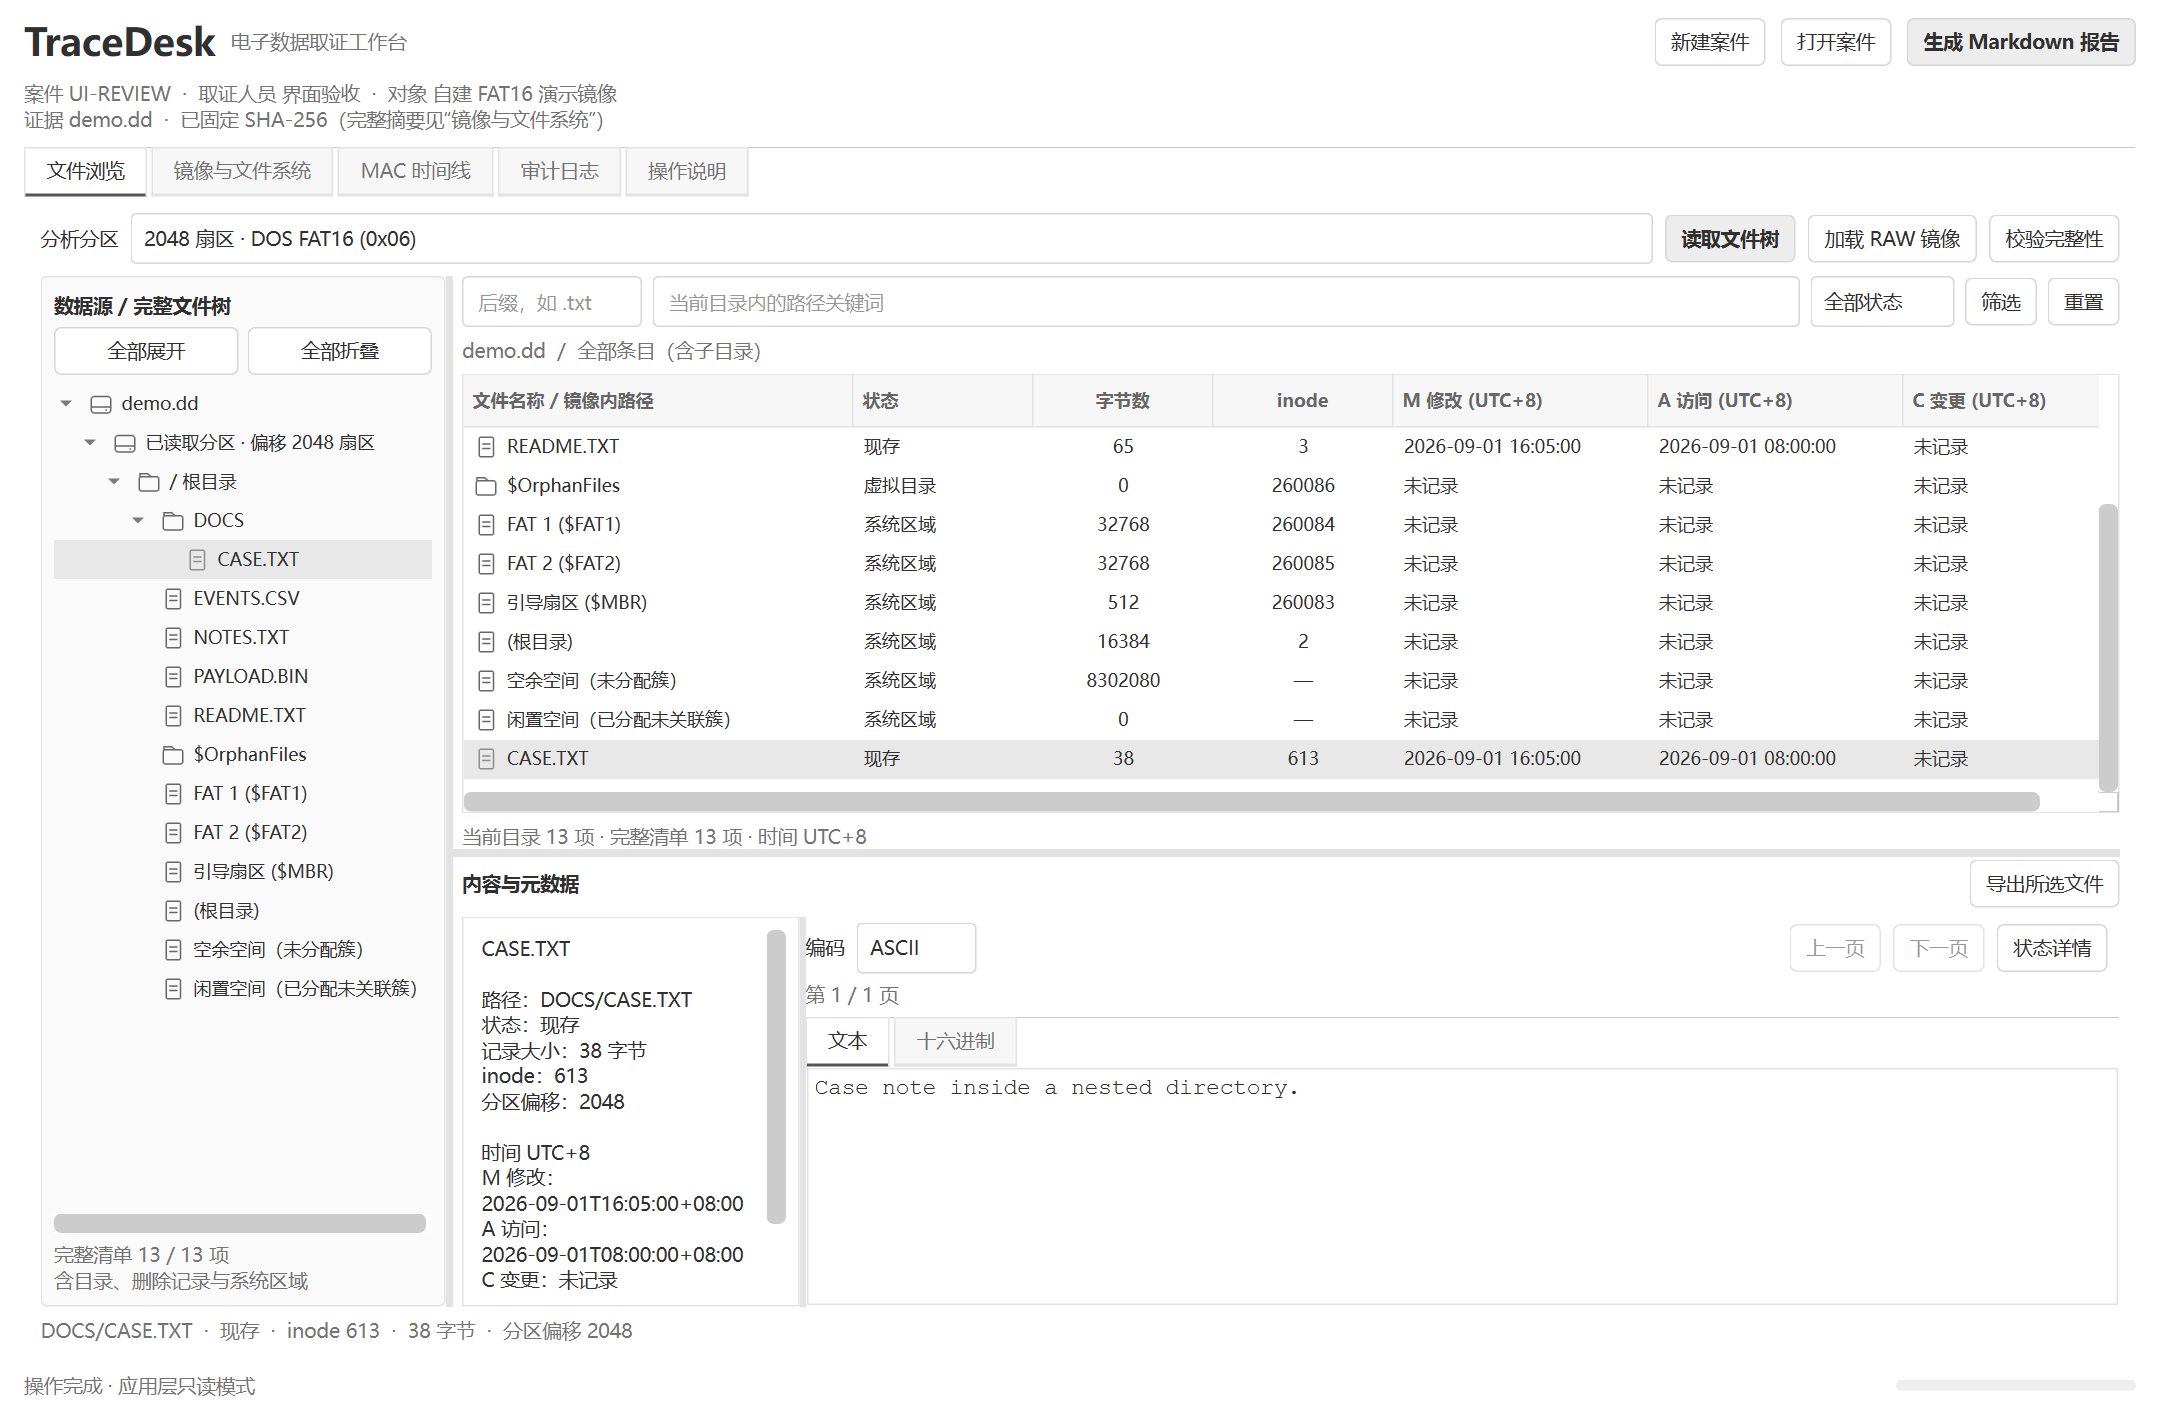
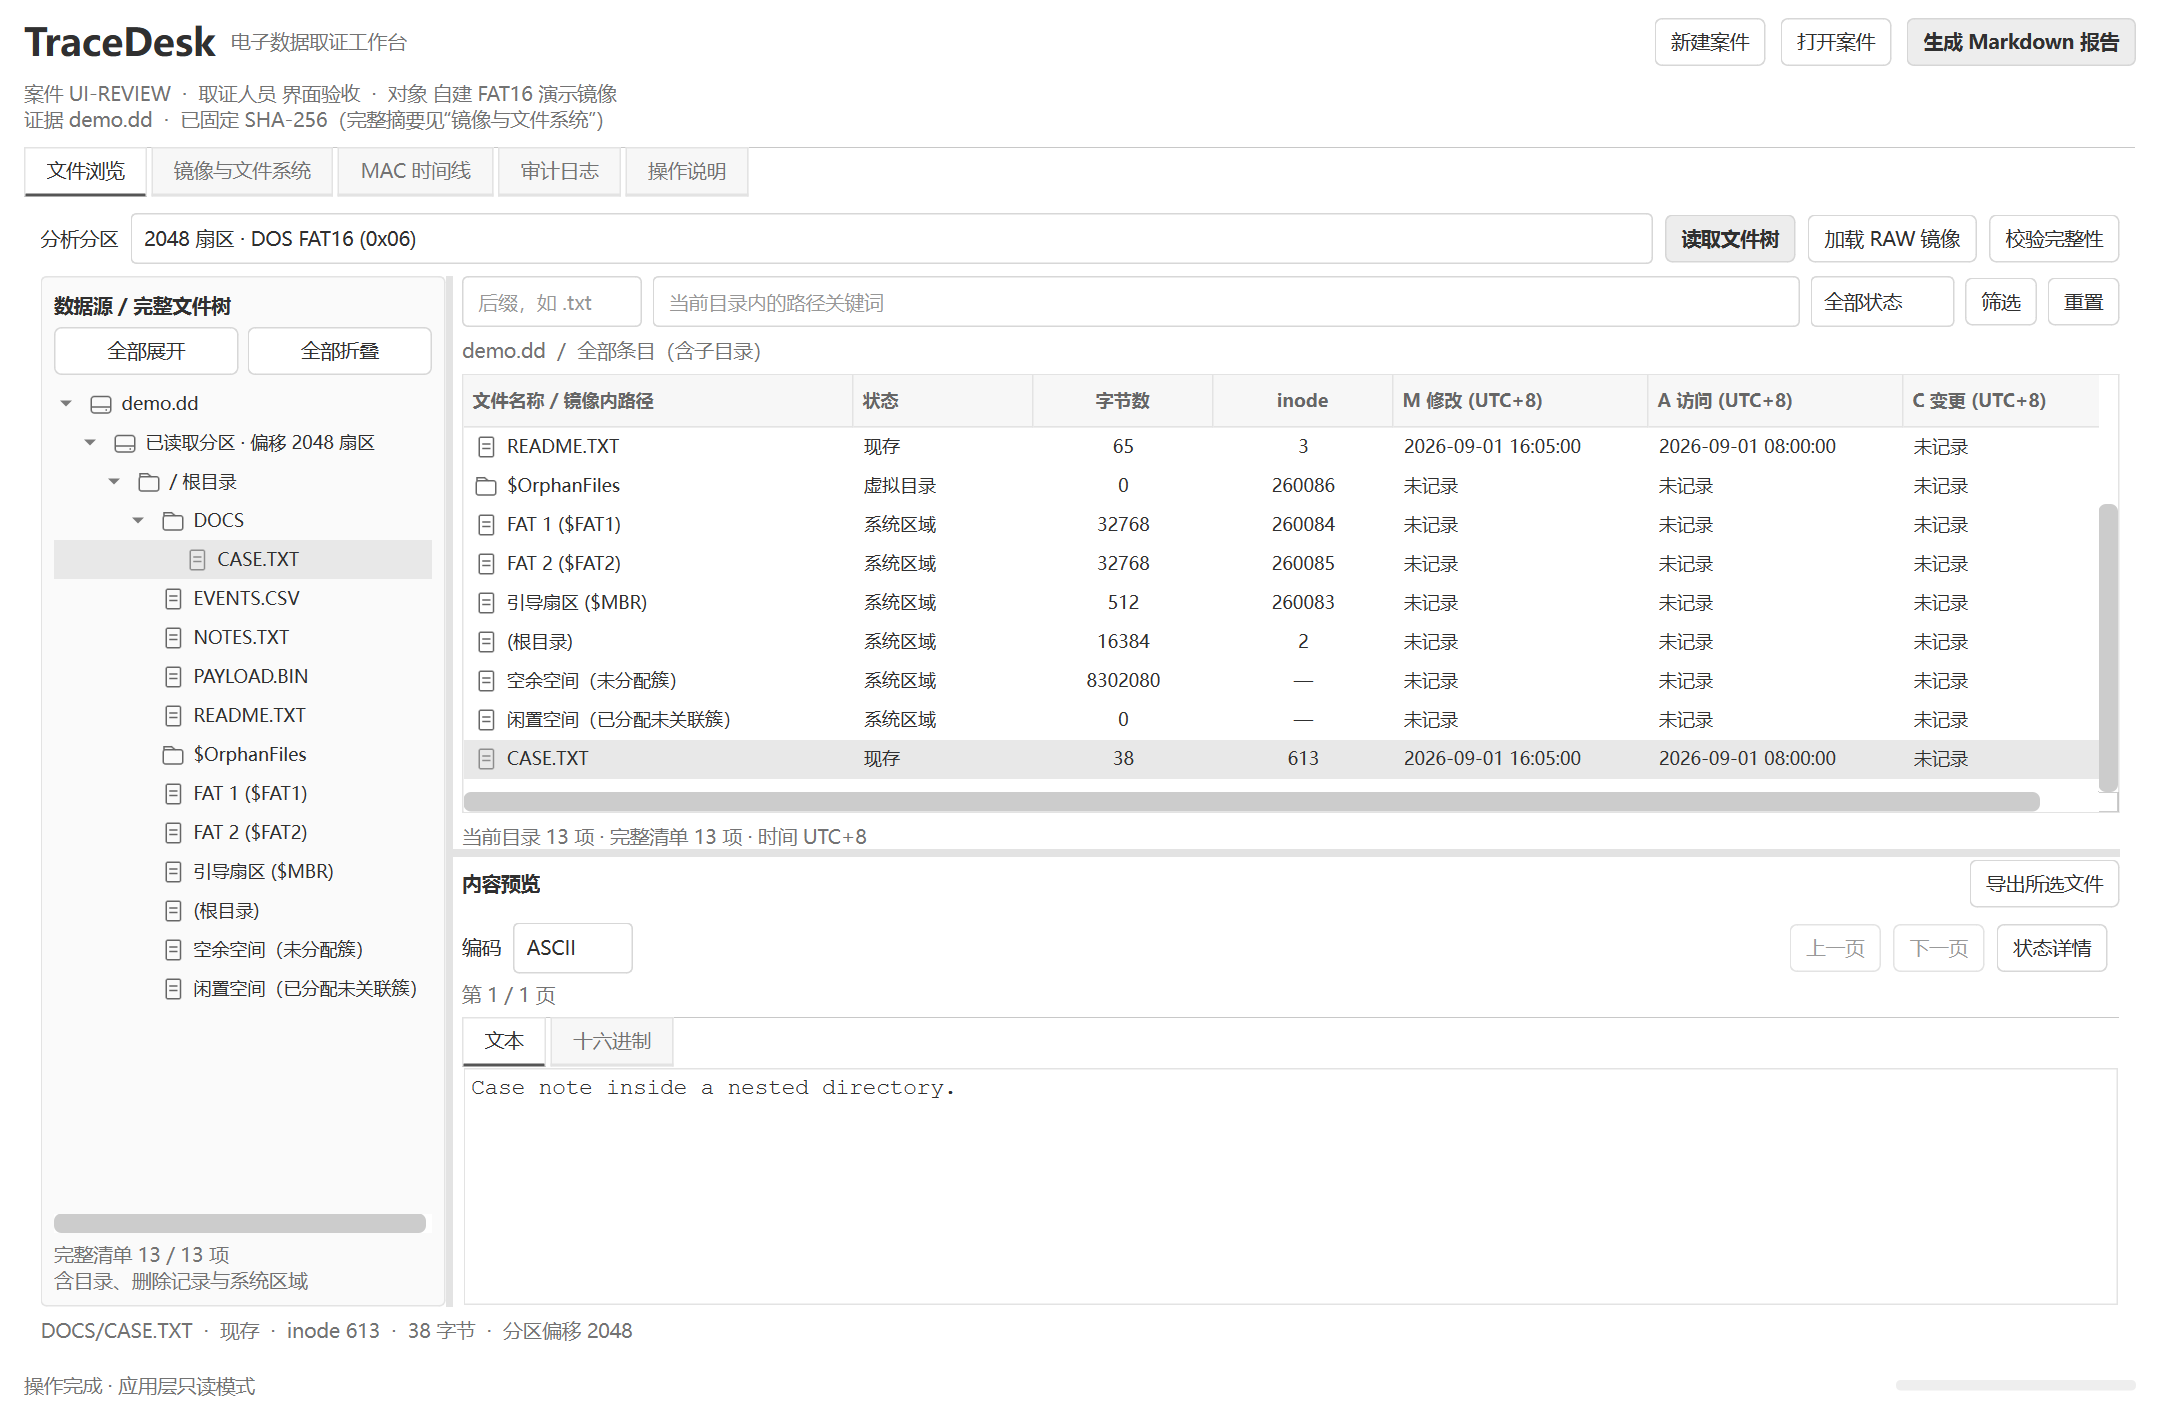
移除文件属性侧栏并扩展内容预览区域

Changed region(s): [[0.2171, 0.6241, 0.4653, 0.9362]]

diff --git a/forensic/ui/browser.py b/forensic/ui/browser.py
@@ -4,7 +4,7 @@ from pathlib import Path
 from PySide6.QtCore import QSignalBlocker, QTimer, Qt
 from PySide6.QtGui import QColor, QIcon, QPainter, QPen, QPixmap
 from PySide6.QtWidgets import (QAbstractItemView, QComboBox, QFrame, QHBoxLayout,
-                               QHeaderView, QLabel, QLineEdit, QPlainTextEdit,
+                               QHeaderView, QLabel, QLineEdit,
                                QPushButton, QSizePolicy, QSplitter, QTreeWidget,
                                QTreeWidgetItem, QVBoxLayout, QWidget)
 
@@ -178,27 +178,14 @@ class FileBrowserView(QWidget):
         content_layout.setContentsMargins(6, 2, 0, 0)
         content_layout.setSpacing(6)
         content_header = QHBoxLayout()
-        content_header.addWidget(label('内容与元数据', 'section'))
+        content_header.addWidget(label('内容预览', 'section'))
         content_header.addStretch()
         self.export_button = self._button('导出所选文件', commands['export'])
         content_header.addWidget(self.export_button)
         content_layout.addLayout(content_header)
-        self.content_split = QSplitter(Qt.Orientation.Horizontal)
-        self.content_split.setChildrenCollapsible(False)
-        self.content_split.setHandleWidth(4)
-        self.metadata = QPlainTextEdit()
-        self.metadata.setObjectName('fileMetadata')
-        self.metadata.setReadOnly(True)
-        self.metadata.setMinimumWidth(150)
-        self.metadata.setPlaceholderText('选择文件查看属性、时间和内容')
-        self.content_split.addWidget(self.metadata)
-        self.preview = FilePreview(self.content_split)
+        self.preview = FilePreview(content)
         self.preview.setMinimumHeight(160)
-        self.content_split.addWidget(self.preview)
-        self.content_split.setStretchFactor(0, 0)
-        self.content_split.setStretchFactor(1, 1)
-        self.content_split.setSizes([225, 700])
-        content_layout.addWidget(self.content_split, 1)
+        content_layout.addWidget(self.preview, 1)
         self.split.addWidget(content)
         self.split.setStretchFactor(0, 3)
         self.split.setStretchFactor(1, 2)
@@ -227,7 +214,6 @@ class FileBrowserView(QWidget):
     def display(self, entries):
         self.cancel_display()
         self.preview.clear()
-        self.metadata.clear()
         self.detail.setText('选择目录定位文件；拖动分隔条调整树、列表和内容区域。')
         self.export_button.setEnabled(False)
         with QSignalBlocker(self.tree), QSignalBlocker(self.navigation):
@@ -355,11 +341,10 @@ class FileBrowserView(QWidget):
             self.tree.setUpdatesEnabled(True)
         self._update_counts()
         if not self.tree.selectedItems():
-            self.metadata.clear()
             self.export_button.setEnabled(False)
             self.preview.clear('没有匹配项' if not self._visible_count else '请选择文件')
             self.detail.setText('当前目录没有匹配项，左侧保留完整文件树。' if not self._visible_count
-                                else '请选择文件查看内容和元数据。')
+                                else '请选择文件查看内容。')
 
     def _update_counts(self):
         scope = '全部条目（含子目录）' if self._scope is None else '/' + self._scope
@@ -386,13 +371,12 @@ class FileBrowserView(QWidget):
                 self.tree.setCurrentItem(None)
             self.reset_filter()
             node.setExpanded(True)
-            self.detail.setText('双击右侧目录进入；选择文件查看内容和元数据。')
+            self.detail.setText('双击右侧目录进入；选择文件查看内容。')
 
     def _result_selected(self):
         selected = self.tree.selectedItems()
         entry = selected[0].data(0, Qt.ItemDataRole.UserRole) if selected else None
         if entry is None:
-            self.metadata.clear()
             self.export_button.setEnabled(False)
         else:
             node = self._nav_items[selected[0].data(0, self.ROW_ROLE)]
@@ -403,11 +387,6 @@ class FileBrowserView(QWidget):
                     parent.setExpanded(True)
                     parent = parent.parent()
                 self.navigation.scrollToItem(node)
-            dates = '\n'.join(f'{title}：{display_time(entry.get(field, 0))}' for title, field in
-                              [('M 修改', 'mtime'), ('A 访问', 'atime'), ('C 变更', 'ctime'), ('B 创建', 'crtime')])
-            self.metadata.setPlainText(f'{entry_name(entry)}\n\n路径：{entry["path"]}\n状态：{entry_status(entry)}\n'
-                                       f'记录大小：{entry["size"]} 字节\ninode：{entry["inode"] or "—"}\n'
-                                       f'分区偏移：{entry["offset"]}\n\n时间 UTC+8\n{dates}')
             self.export_button.setEnabled(not self._busy and can_export(entry))
         self.commands['select']()
 

diff --git a/tests/ui/test_gui.py b/tests/ui/test_gui.py
@@ -147,7 +147,7 @@ class FileBrowserTests(QtTests):
         self.assertTrue(browser.export_button.isEnabled())
         app.preview.open_file.assert_called_once()
 
-    def test_duplicate_deleted_entries_keep_distinct_selection_and_metadata(self):
+    def test_duplicate_deleted_entries_keep_distinct_selection_and_preview(self):
         root, app = self.controller()
         entries = [self.entry(path='DOCS/same.txt', inode=str(i), deleted=True) for i in (5, 9)]
         app.display(entries)
@@ -157,11 +157,11 @@ class FileBrowserTests(QtTests):
         for key, entry in browser.entries.items():
             browser.navigation.setCurrentItem(browser._nav_items[key])
             self.assertEqual(app.selected_entry()['inode'], entry['inode'])
-            self.assertIn(f'inode：{entry["inode"]}', browser.metadata.toPlainText())
+            self.assertIn(f'inode {entry["inode"]}', browser.detail.text())
             self.assertEqual(app.preview.open_file.call_args.args[1]['inode'], entry['inode'])
         browser.apply_filter([])
         self.assertFalse(browser.export_button.isEnabled())
-        self.assertEqual(browser.metadata.toPlainText(), '')
+        self.assertNotIn('inode', browser.detail.text())
         self.assertIsNone(app.selected_entry())
 
     def test_filters_during_batch_insertion_do_not_drop_tree_records(self):

diff --git a/forensic/ui/appearance.py b/forensic/ui/appearance.py
@@ -72,7 +72,6 @@ class DesktopAppearance:
             QLabel[role="section"] { font-weight: 600; }
             QFrame#navigationPanel { background: #fafafa; border: 1px solid #e3e3e3; border-radius: 4px; }
             QTreeWidget#evidenceTree { background: #fafafa; border: none; }
-            QPlainTextEdit#fileMetadata { padding: 8px; }
             QLabel[role="muted"], QLabel#muted { color: #737373; }
             QLabel[role="title"] { color: #303030; }
             QLabel#sectionTitle { color: #303030; font-size: 16px; font-weight: 600; }

diff --git a/docs/设计与验收说明.md b/docs/设计与验收说明.md
@@ -40,7 +40,7 @@ flowchart TD
 
 GUI 将耗时任务放到后台线程，以队列将结果交回 Qt 主线程，通过 `QTimer` 定时消费结果。执行期间禁止切换案件和关闭应用，防止任务写入错误案件。目录名由案件编号、取证人员和取证对象组成。路径分隔符等禁用字符替换为下划线，重名时添加序号；案件元数据保留独立 UUID。
 
-界面为原生 PySide6 控件，采用白色主体与浅灰主题。左侧完整文件树独立于右上目录结果，下方提供文本、十六进制和元数据；筛选仅隐藏结果行，不重建或裁剪完整树。同名删除记录使用独立行标识，选择、预览和导出保留对应的 inode。保留 `Case`、`TSK` 和案件文件格式，布局、主题、对话框、文件树批次显示、任务队列与操作协调分别由独立类负责。主线程消费 `TaskResult` 后更新控件，工作线程不操作 Qt 控件。文件树分批插入，重新加载清单时取消尚未完成的批次；字节数和 inode 两列的标题与数据保持居中。
+界面为原生 PySide6 控件，采用白色主体与浅灰主题。左侧完整文件树独立于右上目录结果，下方整行提供文本和十六进制预览；文件属性与时间在结果列表及底部摘要查看。筛选仅隐藏结果行，不重建或裁剪完整树。同名删除记录使用独立行标识，选择、预览和导出保留对应的 inode。保留 `Case`、`TSK` 和案件文件格式，布局、主题、对话框、文件树批次显示、任务队列与操作协调分别由独立类负责。主线程消费 `TaskResult` 后更新控件，工作线程不操作 Qt 控件。文件树分批插入，重新加载清单时取消尚未完成的批次；字节数和 inode 两列的标题与数据保持居中。
 
 BAT 启动脚本切换到项目目录，首次创建 `.venv`，仅在 PySide6 缺失时补齐 pip 并通过清华镜像安装依赖，再通过 `.venv\Scripts\python.exe main.py` 启动；保留终端窗口，运行失败时暂停。Qt 6 自动处理高 DPI 缩放，窗口按屏幕可用工作区放置。应用入口和 Qt 回调异常写入日志并弹窗显示，退出事件循环时恢复原有 `sys.excepthook`。
 

diff --git a/docs/ui/实施与验证.md b/docs/ui/实施与验证.md
@@ -7,8 +7,8 @@
 - 白色主体、浅灰导航与选中项、深灰文字和图标，标题栏与任务栏图标也同步为灰阶。
 - 左侧显示镜像、本次读取分区、完整目录层级及文件；删除记录和系统区域保留，不因后缀、路径或状态筛选消失。
 - 右上展示当前目录结果，点击左树文件会定位其父目录，双击右侧目录可进入；列表选中项会展开并定位左树。
-- 右下显示元数据及文本/十六进制预览，支持原有 ASCII、UTF-8、分页、部分读取提示与证据副本导出。
-- 左右、上下和元数据区域均使用可拖动分隔条；长路径、全部时间列、元数据及预览均可滚动查看。
+- 右下整行显示文本/十六进制预览，支持原有 ASCII、UTF-8、分页、部分读取提示与证据副本导出。按用户圈选移除独立文件属性侧栏，属性与时间仍可在结果列表及底部摘要查看。
+- 左右、上下区域使用可拖动分隔条；长路径、全部时间列及预览均可滚动查看。
 - 继续使用原有单镜像、单次扫描分区的案件清单；选择其他分区并重新读取后替换本次清单。
 
 ## 验证
@@ -22,5 +22,7 @@
 - 沙箱内启动现有 32 位 TSK 曾出现 WinError 623，改用正常本机执行环境验证；一次临时测试案件替换 `case.json` 遇到 WinError 5，单独复核通过。未为环境问题修改取证逻辑。
 
 下图来自真实桌面应用和自建演示镜像，不是 HTML 设计稿：
+
+移除文件属性侧栏后复核：13 项界面回归和 4 项内容预览回归通过；再次使用真实演示镜像检查导航、内容读取、导出、校验及报告，并在两种窗口尺寸下确认预览占满内容区。
 
 ![实际 PySide6 工作台](implemented-ui.png)

diff --git a/README.md b/README.md
@@ -32,7 +32,7 @@ python -m venv .venv
 
 当前工程已经包含官方 Windows TSK 程序和两份演示镜像，TSK 无需通过 pip 安装。若 TSK 文件丢失，运行 `powershell -File scripts/install_tsk.ps1`，或将环境变量 `TSK_BIN` 指向完整 TSK `bin` 目录。需要保留 DLL 与 licenses，不要只复制四个 exe。
 
-界面统一使用 PySide6 原生控件，采用白色主体、浅灰按钮与选中背景、深灰文字和图标。布局为左侧完整文件树、右上文件列表、右下内容与元数据。Qt 6 自动处理高 DPI 和逻辑像素缩放；中文优先使用微软雅黑，文本和十六进制预览使用等宽字体。树、列表与内容支持滚动，区域之间可以拖动分隔条调整大小。所有 Python 第三方依赖只安装到本项目 `.venv`，使用清华镜像：
+界面统一使用 PySide6 原生控件，采用白色主体、浅灰按钮与选中背景、深灰文字和图标。布局为左侧完整文件树、右上文件列表、右下整行内容预览。Qt 6 自动处理高 DPI 和逻辑像素缩放；中文优先使用微软雅黑，文本和十六进制预览使用等宽字体。树、列表与内容支持滚动，区域之间可以拖动分隔条调整大小。所有 Python 第三方依赖只安装到本项目 `.venv`，使用清华镜像：
 
 ```powershell
 .\.venv\Scripts\python.exe -m pip install -i https://pypi.tuna.tsinghua.edu.cn/simple -r requirements.txt

diff --git a/docs/ui/设计说明.md b/docs/ui/设计说明.md
@@ -23,7 +23,7 @@
 
 ## 正式实施
 
-已将布局映射到 PySide6 原生控件，继续复用现有案件、TSK、后台任务和预览读取接口。正式界面用可拖动分隔条调整树宽、列表高度和元数据宽度；HTML 中的密度调整及移动端重排仅为设计探索，桌面版按实际屏幕工作区设置最小窗口尺寸。真实目录树展示本次读取分区的完整清单。
+已将布局映射到 PySide6 原生控件，继续复用现有案件、TSK、后台任务和预览读取接口。正式界面用可拖动分隔条调整树宽和列表高度；后续按用户圈选移除独立元数据侧栏，内容预览占满下方区域。HTML 保留原始设计，密度调整及移动端重排仅为设计探索，桌面版按实际屏幕工作区设置最小窗口尺寸。真实目录树展示本次读取分区的完整清单。
 
 ## 预览检查
 
